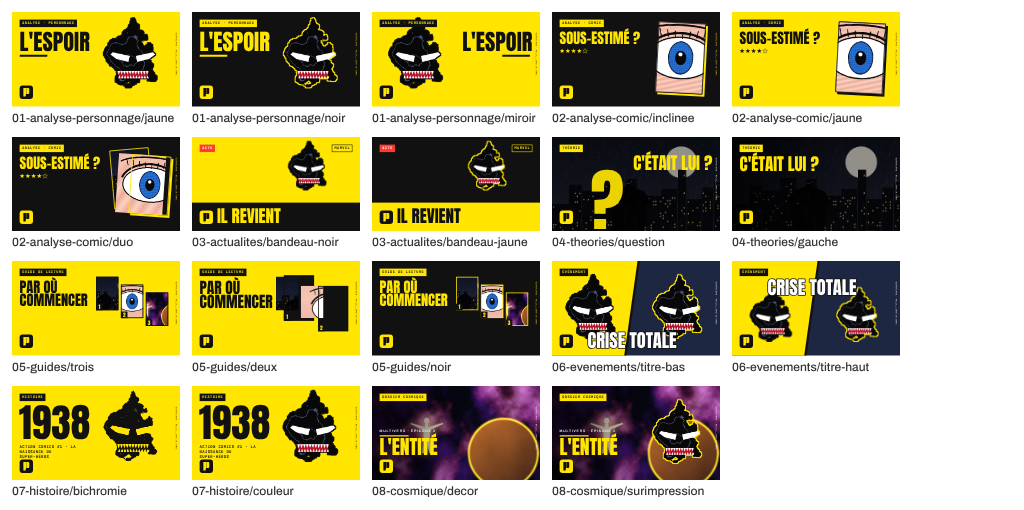
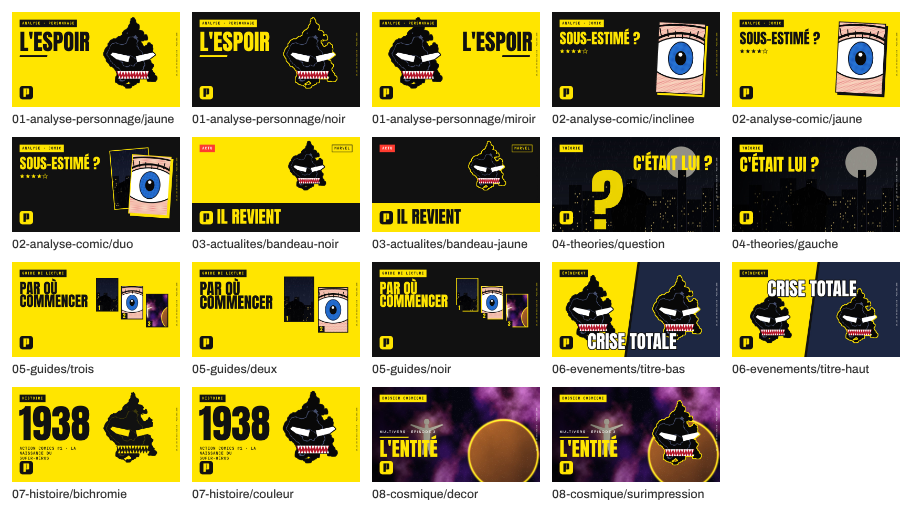
Rendus reproductibles : identifiants SVG isolés, planches composées sur canvas
Claude-Session: https://claude.ai/code/session_01C9J7sL1UheZER6gr6bRiTp

diff --git a/tools/rendu.html b/tools/rendu.html
@@ -4,9 +4,15 @@
 <body><script type="module">
 // Charge un ou plusieurs fichiers SVG de gabarit et les insère tels quels (les liens d'images sont résolus depuis leur dossier).
 const q = new URLSearchParams(location.search);
-const charger = async (f) => { const t = await (await fetch('../' + f)).text(); const base = '../' + f.slice(0, f.lastIndexOf('/') + 1); return t.replace(/(xlink:href|href)="(?!data:|https?:|\/)([^"]+)"/g, (m, a, h) => `${a}="${base}${h}"`); };
+// Identifiants préfixés : plusieurs SVG dans une même page ne doivent pas partager leurs filtres ni leurs découpes
+const isoler = (svg, k) => svg.replace(/\bid="([^"]+)"/g, `id="${k}-$1"`).replace(/url\(#([^)]+)\)/g, `url(#${k}-$1)`);
+let n = 0;
+const charger = async (f) => { const t = await (await fetch('../' + f)).text(); const base = '../' + f.slice(0, f.lastIndexOf('/') + 1); return isoler(t.replace(/(xlink:href|href)="(?!data:|https?:|\/|#)([^"]+)"/g, (m, a, h) => `${a}="${base}${h}"`), `s${n++}`); };
 if (q.get('f')) document.body.innerHTML = await charger(q.get('f'));
-else { const fs = q.get('planche').split(','); document.body.innerHTML = `<div id="planche" style="--l:${+q.get('l') || 168}px">` + (await Promise.all(fs.map(async (f) => `<figure>${await charger(f)}<figcaption>${f.split('/')[2]}/${f.split('_')[3]}</figcaption></figure>`))).join('') + '</div>'; }
-await document.fonts.ready; await Promise.all([...document.images, ...document.querySelectorAll('image')].map((i) => i.decode ? i.decode().catch(() => {}) : 0));
-await new Promise((r) => setTimeout(r, 150)); window.pret = true;
+else if (q.get('planche')) { const fs = q.get('planche').split(','); document.body.innerHTML = `<div id="planche" style="--l:${+q.get('l') || 168}px">` + (await Promise.all(fs.map(async (f) => `<figure>${await charger(f)}<figcaption>${f.split('/')[2]}/${f.split('_')[3]}</figcaption></figure>`))).join('') + '</div>'; }
+// Rendu déterministe : polices chargées, toutes les images préchargées et décodées, puis deux images d'affichage
+await document.fonts.ready;
+const urls = [...new Set([...document.querySelectorAll('image')].map((i) => i.getAttribute('href')))];
+await Promise.all(urls.map((u) => { const i = new Image(); i.src = u; return i.decode().catch(() => {}); }));
+await new Promise((r) => requestAnimationFrame(() => requestAnimationFrame(() => setTimeout(r, 300)))); window.pret = true;
 </script></body>

diff --git a/atelier/atelier.js b/atelier/atelier.js
@@ -57,7 +57,8 @@ function dessiner() {
     planifie = false;
     rendu = rendre(etat.fam, etat.vari, etat.donnees, { guides: $('#guides').checked });
     $('#apercu').innerHTML = rendu.svg;
-    $('#mini').innerHTML = rendre(etat.fam, etat.vari, etat.donnees).svg;
+    // Aperçu réduit : identifiants préfixés pour ne pas partager filtres et découpes avec l'aperçu principal
+    $('#mini').innerHTML = rendre(etat.fam, etat.vari, etat.donnees).svg.replace(/\bid="([^"]+)"/g, 'id="mini-$1"').replace(/url\(#([^)]+)\)/g, 'url(#mini-$1)');
     afficherAlertes(rendu.alertes);
   });
 }
